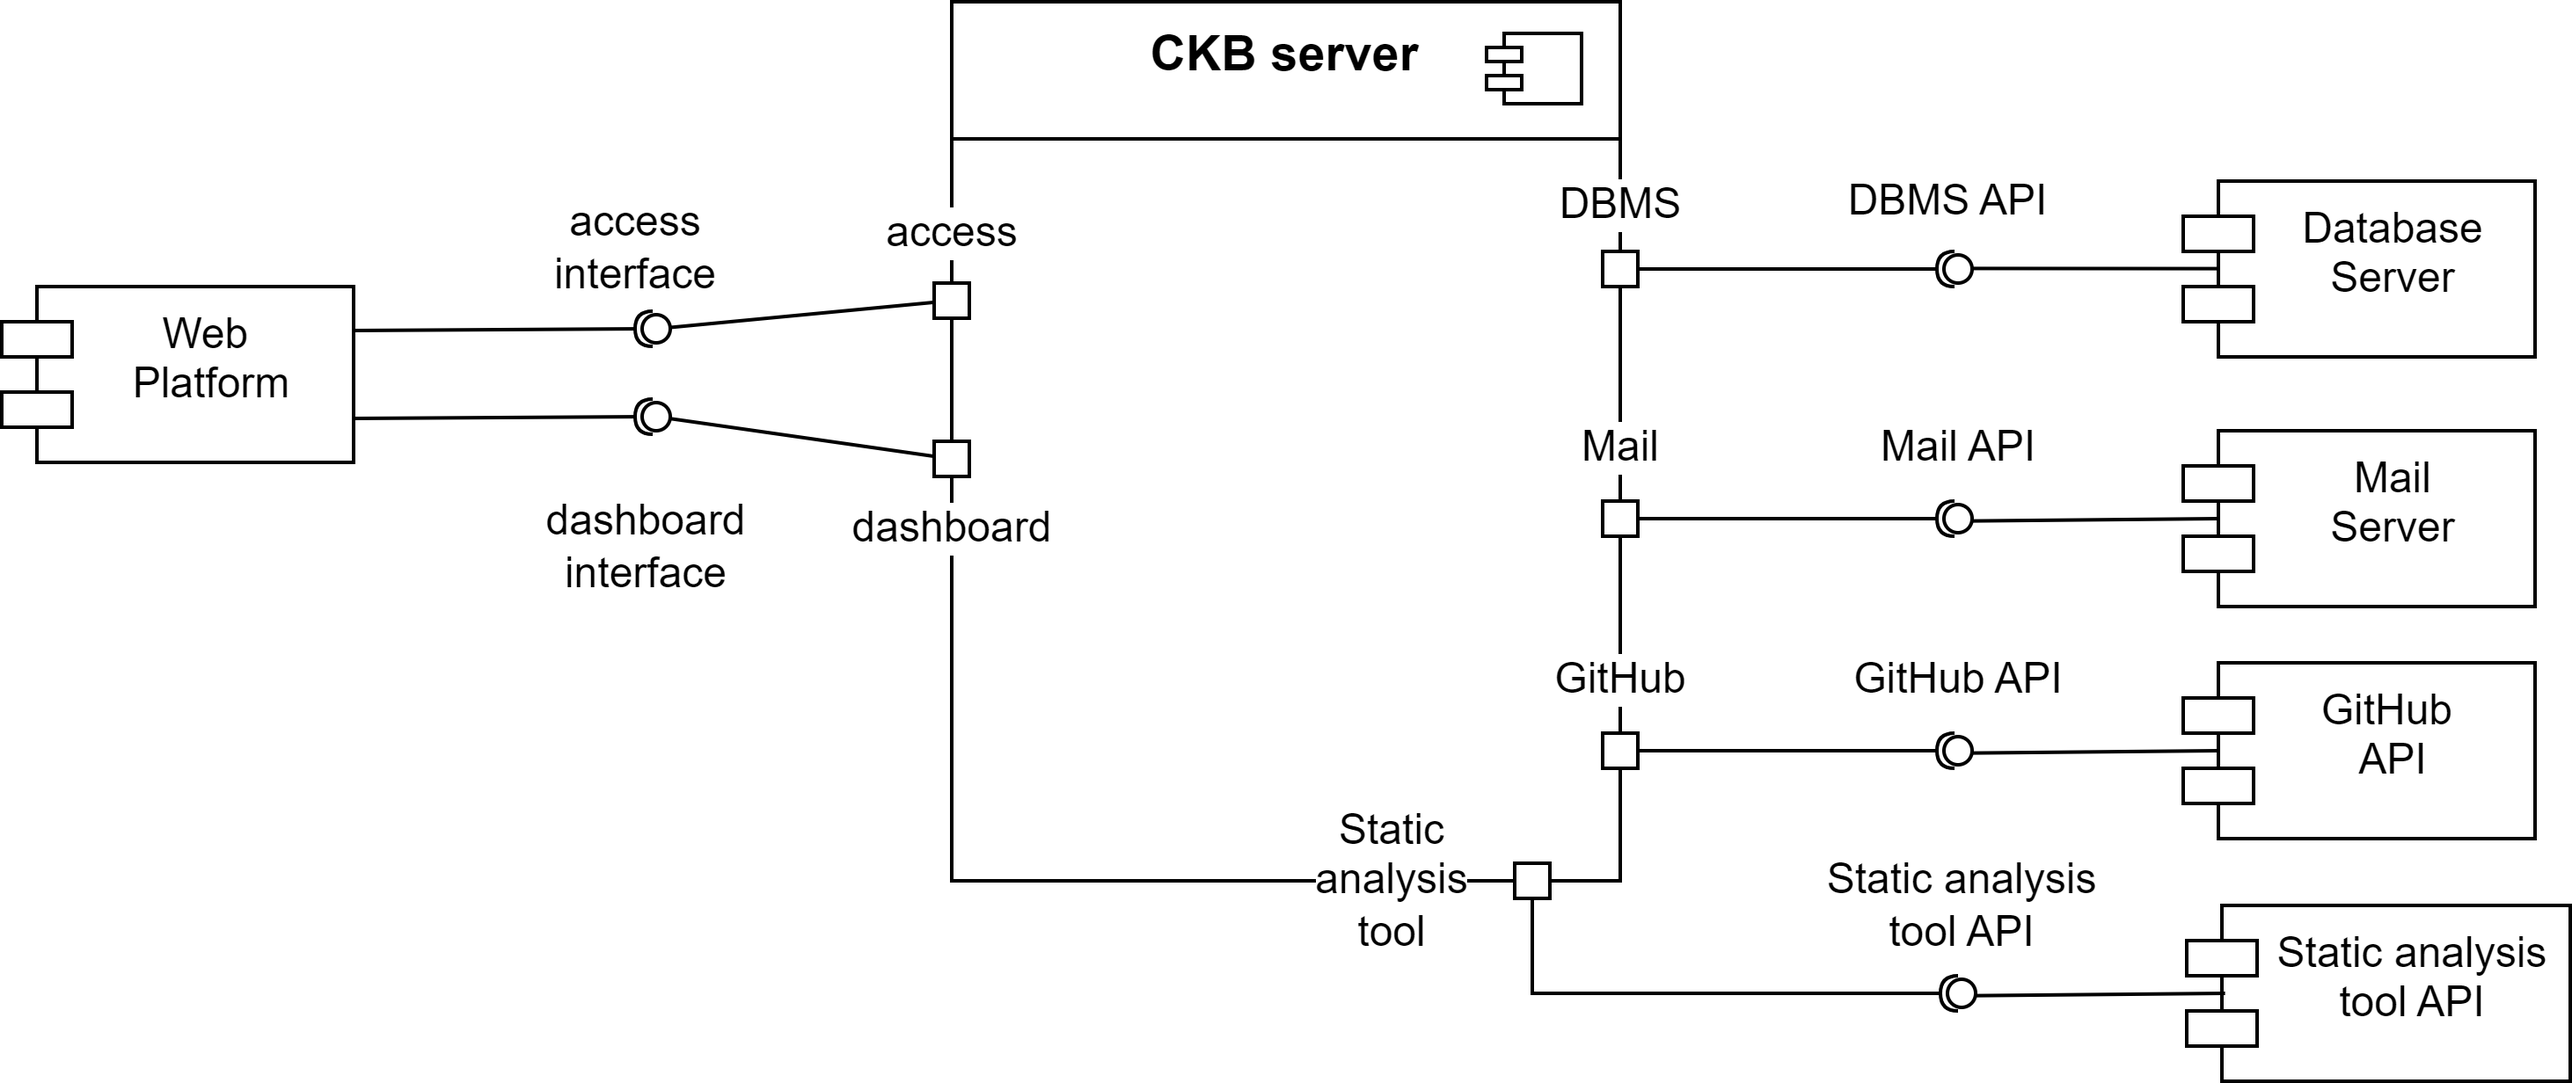
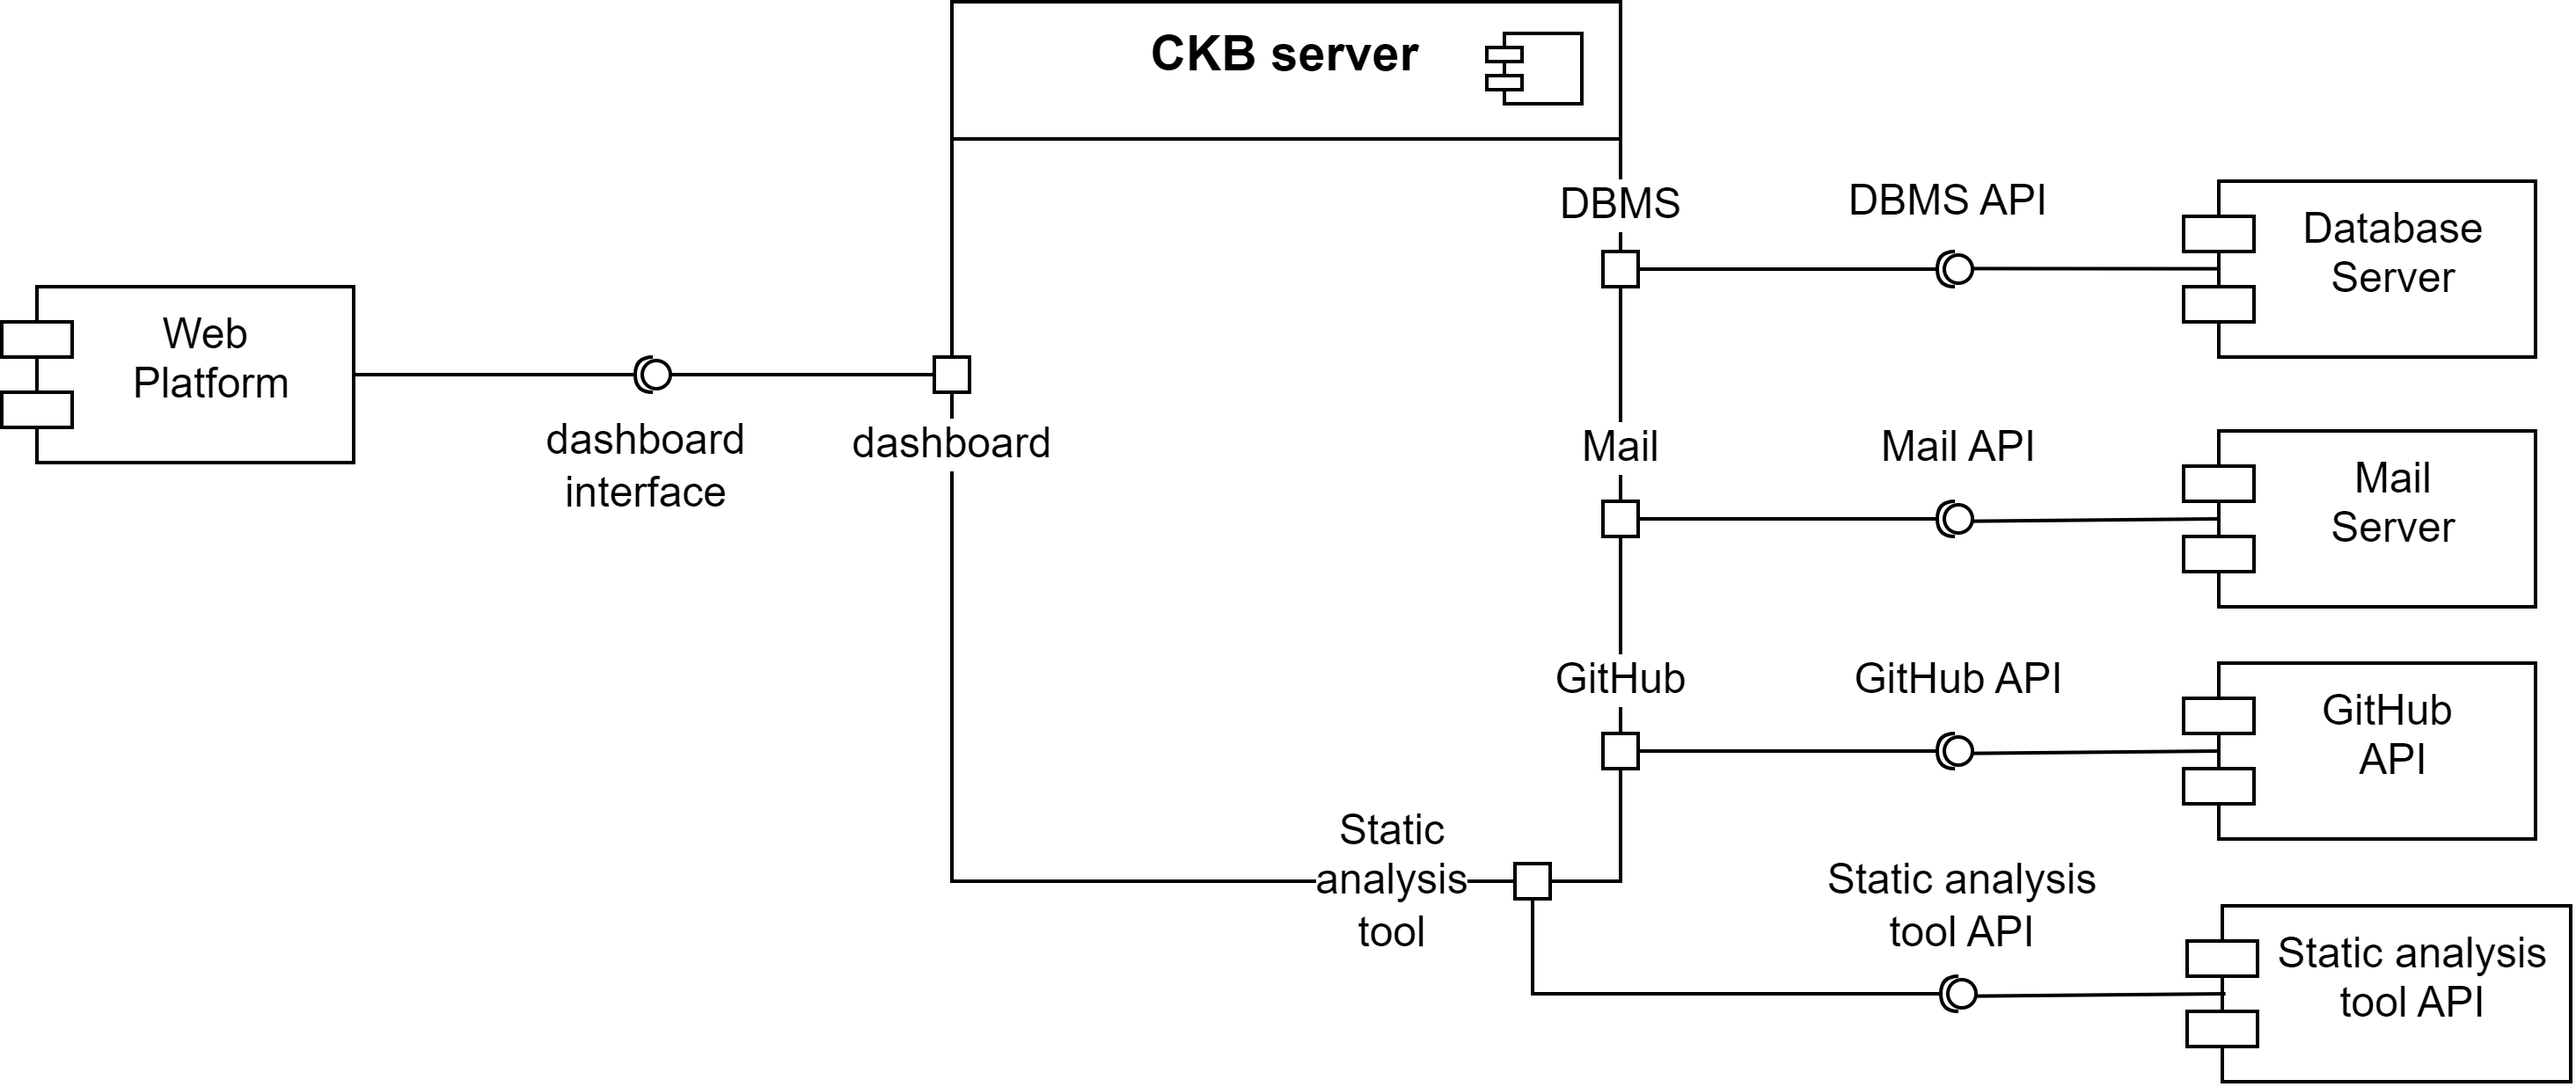
Added deployment view.
Added facade pattern.
Added links.

diff --git a/DD/chapters/2_architectural_design.tex b/DD/chapters/2_architectural_design.tex
@@ -80,16 +80,27 @@ A further explanation of the relevant internal components follows.
 
 \clearpage
 \section{Deployment view}\label{sec: deployment}
+As previously stated in section \ref{sec: overview} the CKB system will be implemented through a three-tier architecture as shown in figure \ref{fig:deployment}. \newline
+The three-tired architecture is a well-established software application architecture that organizes the system into three logical and physical computing layers:
 \begin{itemize}
-    \item Presentation layer/tier: it communicates with the application layer in order to retrieve all necessary information requested by the user and it display them. 
-    \item Application layer/tier: it manages all system functionalities. It communicates with the data layer in order to store or retrieve useful data.
-    \item Data layer/tier: it includes the database of the system and all necessary mechanism to extract and evaluate data.
+    \item \textbf{Presentation layer/tier}: it is the user interface where the user interacts with the application. It communicates with the application layer in order to retrieve all necessary information requested by the user. Its main purpose is to display information and collect information from the user.
+    \item \textbf{Application layer/tier}: it manages all system functionalities. All information collected in the application layer are processed using a specific business logic. It communicates with the data layer in order to store, delete or modify useful data.
+    \item \textbf{Data layer/tier}: it includes the database of the system and all necessary mechanism to extract and evaluate data.
 \end{itemize}
+\begin{figure}[h]
+    \centering 
+    \includegraphics[scale=0.8]{images/deployment.png}
+    \caption{Deployment diagram}
+    \label{fig:deployment}
+\end{figure}
 \clearpage
+
 \section{Component interface}
 \clearpage
+
 \section{Run-time view}
 \clearpage
+
 \section{Selected architectural styles and patterns}
 \subsubsection*{Client-Server Architecture}
 As previously mentioned in section \ref{sec: overview} the CKB system will be developed based on the client-server architecture. Client and server are two separate objects that communicate over a network: a client makes a request for a service, the server receives this request, process it, and sends back a response. 
@@ -116,5 +127,12 @@ The software will be implemented based on a MVC patter, that divides the program
     \caption{Model-View-Controller paradigm}
     \label{fig:MVC}
 \end{figure}
+
+\subsection*{Facade pattern}
+The dashboard component is implemented using the facade pattern, which hide the system's complexity from the client and offers a more user-friendly interface.
+In this way the client communicates only with the dashboard interface, that manages all inputs. The dashboard manager communicates with the appropriate sub-component based on the client request.
+
 \clearpage
 \section{Other design decision}
+\subsection*{Relational DBMS}
+The data layer, as mentioned in section \ref{sec: deployment}, consists of a relational DBMS. 

diff --git a/DD/chapters/4_requirements_traceability.tex b/DD/chapters/4_requirements_traceability.tex
@@ -9,7 +9,7 @@ This section explains which components are needed to meet each requirement state
     \textbf{Web platform,Dashboard manager, Users access manager}
     \item \lbl{req: listT} {The system shall allow all users to see the list of ongoing tournaments.} \newline
     \textbf{Web platform, Dashboard manager, Tournament manager}
-    \item \lbl{req: evalA} {The system shall automatically evaluate submissions.}
+    \item \lbl{req: evalA} {The system shall automatically evaluate submissions.} \newline
     \textbf{Automatic evaluation manager} 
     \item \lbl{req: ranks} {The system shall allow users to be able to monitor ranking in real-time during battles and tournaments.} \newline
     \textbf{Web platform, Dashboard manager, Tournament manager, Battle manager, Automatic evaluation manager} 

diff --git a/RASD/main.tex b/RASD/main.tex
@@ -45,7 +45,7 @@
 \usepackage{color}
 \definecolor{blue}{RGB}{42,0.0,255}
 \definecolor{green}{RGB}{63,127,95}
- 
+
 \lstset{
   language={alloy},
   basicstyle=\small\ttfamily, % Global Code Style
@@ -64,6 +64,17 @@
   commentstyle=\color{green}, % style of comments
   keywordstyle=\color{blue}, % style of keywords
 }
+
+\usepackage[dvipsnames]{xcolor}
+\usepackage{hyperref}
+\hypersetup{
+    colorlinks=true,
+    linkcolor=RoyalBlue,
+    filecolor=magenta,      
+    urlcolor=cyan,
+    pdfpagemode=FullScreen,
+}
+\urlstyle{same}
 
 \begin{document}
 	\include{structure/title}

diff --git a/DD/chapters/6_effort.tex b/DD/chapters/6_effort.tex
@@ -43,9 +43,10 @@
 		\textbf{Task} & \textbf{Hours} \\ \hline
             Document Setup & 1 \\ \hline
             Chapter 1: Introduction & 1 \\ \hline
-            Chapter 2: Architectural design & 6.5 \\ \hline
+            Chapter 2: Architectural design & 7.5 \\ \hline
             Chapter 3: User interface design & 8.5 \\ \hline
             Chapter 4: Requirements traceability & 1 \\ \hline
             Chapter 5: Implementation, integration and test plan & 0 \\ \hline
+            Extra activities & 1 \\ \hline
 	\end{tabular}
 \end{center}

diff --git a/DD/main.tex b/DD/main.tex
@@ -24,6 +24,17 @@
 \newcommand{\print}[1] {\ref{#1} \uselbl{#1}\break\par}
 \newcommand{\printRef}[1]{\ref{#1}}
 
+\usepackage[dvipsnames]{xcolor}
+\usepackage{hyperref}
+\hypersetup{
+    colorlinks=true,
+    linkcolor=RoyalBlue,
+    filecolor=magenta,      
+    urlcolor=cyan,
+    pdfpagemode=FullScreen,
+}
+\urlstyle{same}
+
 \begin{document}
 	\include{structure/title}
 

diff --git a/DD/chapters/7_references.tex b/DD/chapters/7_references.tex
@@ -1,5 +1,5 @@
 \chapter{References}
 \begin{itemize}
-    \item All diagrams have been made with https://www.draw.io
-    \item All mockups have been made with https://moqups.com/
+    \item All diagrams have been made with \url{https://www.draw.io}
+    \item All mockups have been made with \url{https://moqups.com/}
 \end{itemize}

diff --git a/RASD/chapters/6_references.tex b/RASD/chapters/6_references.tex
@@ -1,5 +1,5 @@
 \chapter{References}
 \begin{itemize}
-    \item All diagrams have been made with https://www.draw.io
+    \item All diagrams have been made with \url{https://www.draw.io}
     \item Alloy code development has been supported by VS code (Extensions used: Alloy, Alloy VSCode) and Alloy Analyzer
 \end{itemize}

diff --git a/RASD/chapters/5_effort.tex b/RASD/chapters/5_effort.tex
@@ -6,7 +6,7 @@
         \hline
         \textbf{Task} & \textbf{Hours} \\ \hline
         Initial briefing & 2 \\ \hline
-	Alloy & 1 \\ \hline
+        Alloy & 1 \\ \hline
     \end{tabular}
 \end{center}
 
